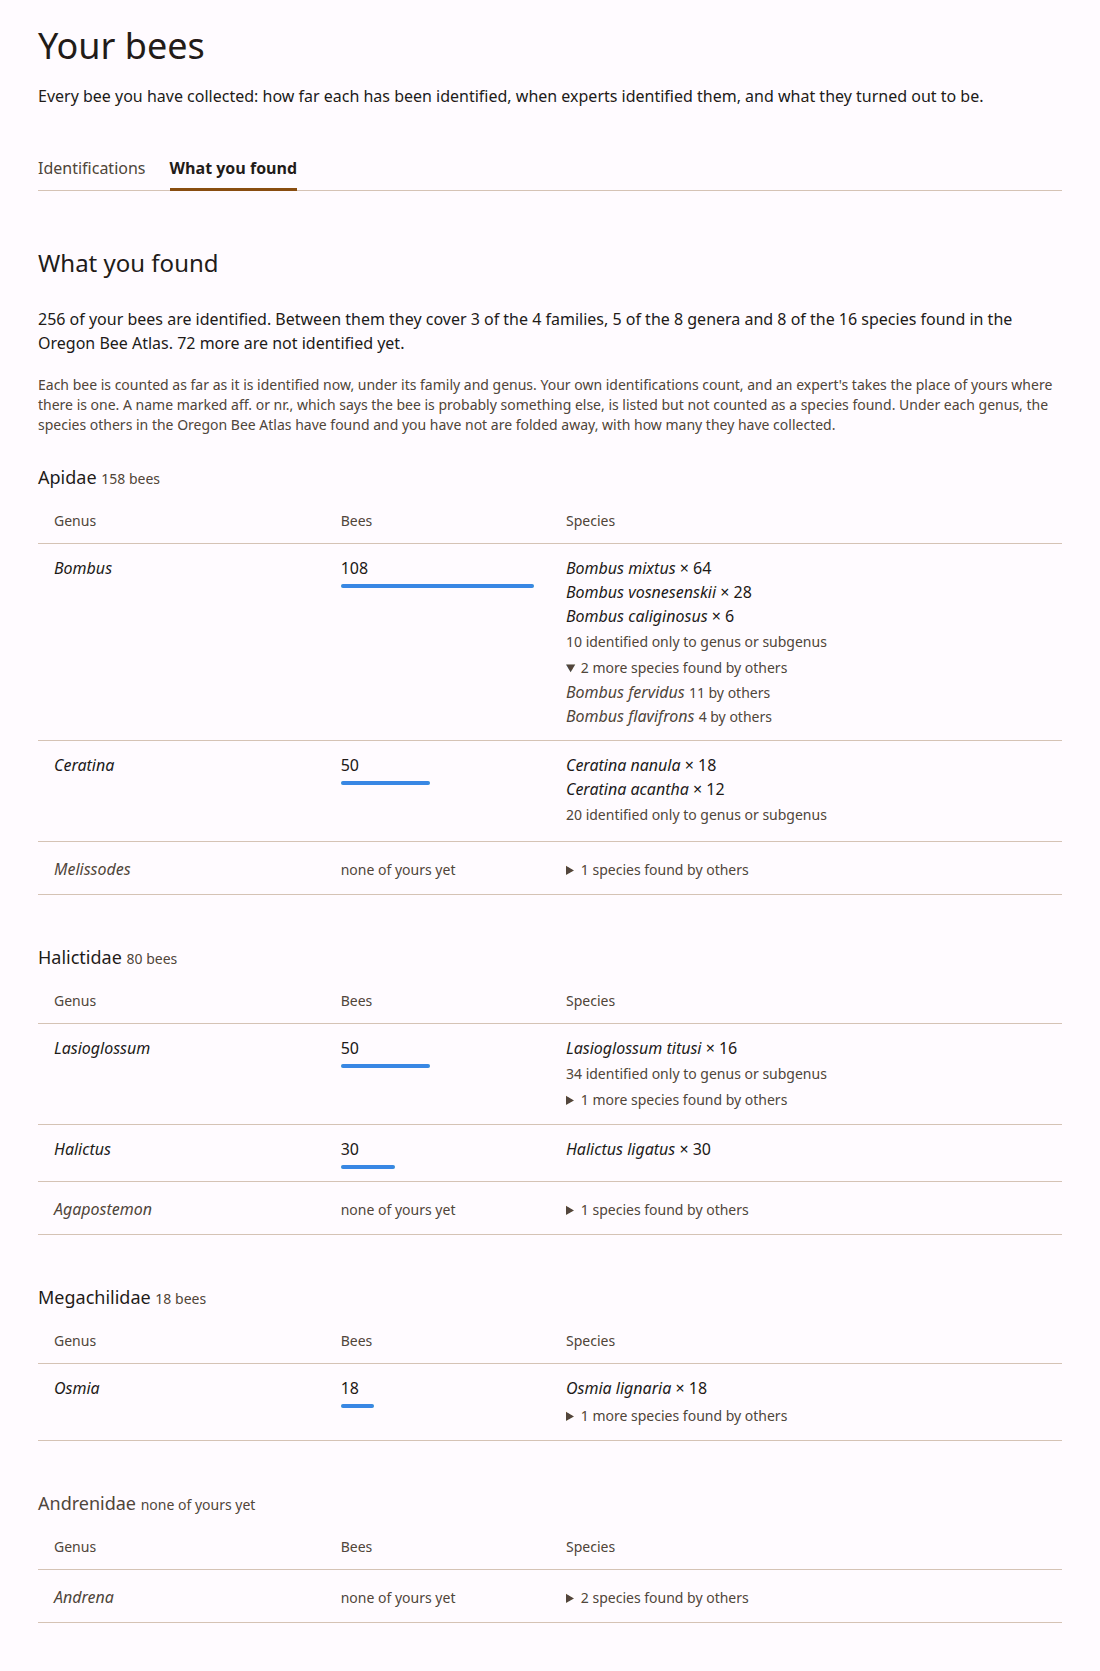
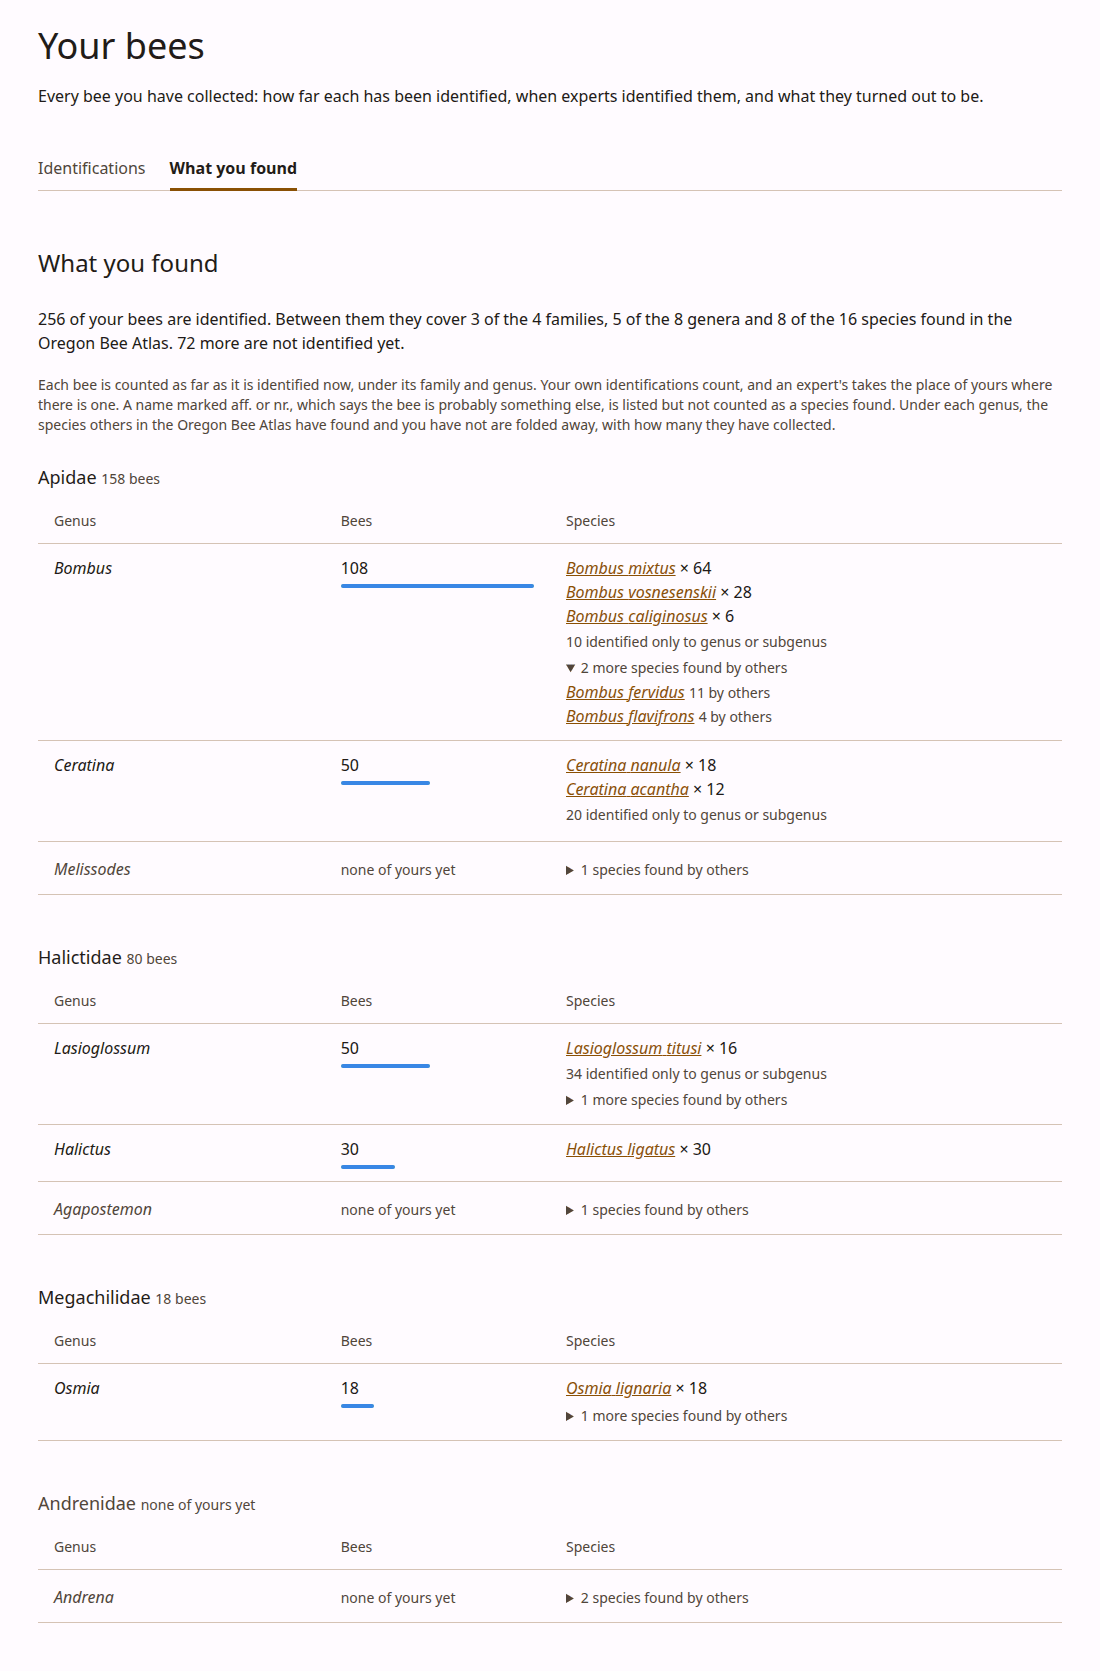
Link each species on What you found to its taxon page
Peter, 2026-11-12. The volunteer's species and those found by others both
open their page under /taxonomy.

diff --git a/src/app/views/your-bees.tsx b/src/app/views/your-bees.tsx
@@ -1,6 +1,7 @@
 import type { Messages } from "../messages/index.js";
 import type { Batch, BatchKind, Batches, BatchSpecimen, GenusFound, TaxaFound, YearOfBees } from "../your-bees.js";
 import { specimenHref } from "../record.js";
+import { taxonHref } from "../taxonomy.js";
 import { DataTable, EmptyState, Meta, PageHeader, Tabs, TaxonName } from "./components/index.js";
 
 /**
@@ -305,7 +306,10 @@ function GenusRow({ m, genus, max }: { m: Messages; genus: GenusFound; max: numb
     <ul class="found-species">
       {genus.species.map((s) => (
         <li>
-          <TaxonName rank={s.rank} scientificName={s.scientific_name} qualifier={s.qualifier ?? undefined} />
+          {/* The name's own page, where a volunteer can read what is filed under it. */}
+          <a href={taxonHref(s)}>
+            <TaxonName rank={s.rank} scientificName={s.scientific_name} qualifier={s.qualifier ?? undefined} />
+          </a>
           {s.bees > 1 && <> {m.yourBees.batches.times(s.bees)}</>}
         </li>
       ))}
@@ -321,7 +325,10 @@ function GenusRow({ m, genus, max }: { m: Messages; genus: GenusFound; max: numb
         <ul class="found-species">
           {genus.byOthers.map((o) => (
             <li>
-              <TaxonName rank="species" scientificName={o.scientific_name} /> <span class="meta">{t.byOthers(o.bees)}</span>
+              <a href={taxonHref({ rank: "species", scientific_name: o.scientific_name })}>
+                <TaxonName rank="species" scientificName={o.scientific_name} />
+              </a>{" "}
+              <span class="meta">{t.byOthers(o.bees)}</span>
             </li>
           ))}
         </ul>

diff --git a/test/expert-identification.test.ts b/test/expert-identification.test.ts
@@ -547,6 +547,7 @@ describe("what you found", () => {
     });
     const taxa = await (await app.request("/bees/taxa")).text();
     expect(taxa).toContain(en.yourBees.found.summary(1, 1, 1, 1));
+    expect(taxa).toContain('href="/taxonomy/species/Bombus%20mixtus"');
     expect(taxa).toMatch(/<a href="\/bees\/taxa" aria-current="page">/);
     const bees = await (await app.request("/bees")).text();
     expect(bees).toMatch(/<a href="\/bees" aria-current="page">/);
